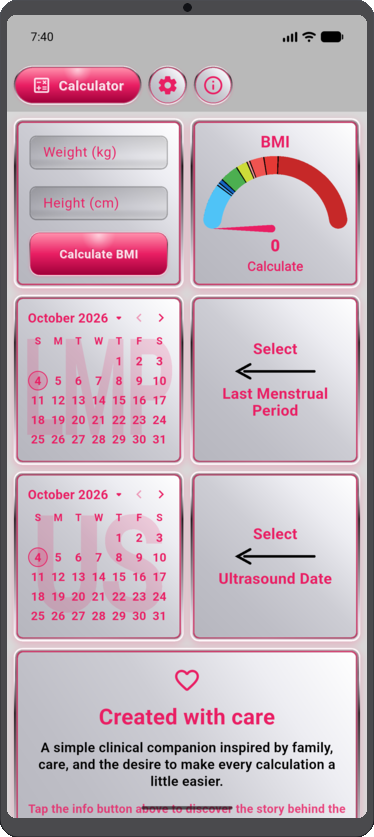
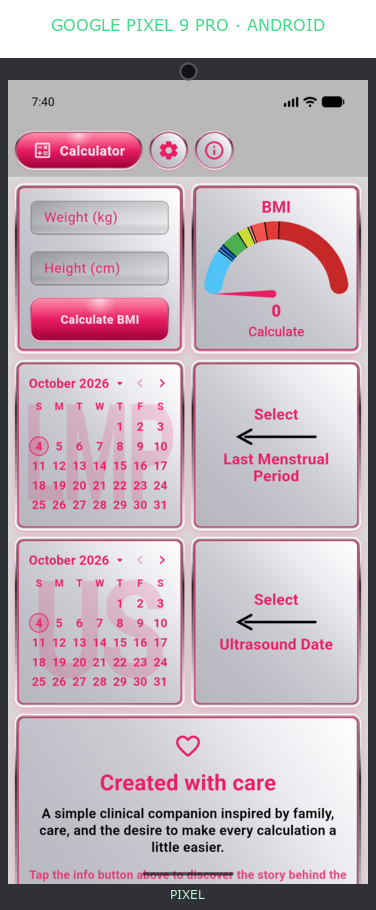
Refresh public gallery device renders

diff --git a/README.md b/README.md
@@ -6,6 +6,8 @@
 
 ## Android
 
+<p><img src="images/renders/2026-10/android/device-label.png" alt="Google Pixel 9 Pro · Android" height="19"></p>
+
 ### Launch
 
 <a href="images/renders/2026-10/android/android-launch-gallery-device.png"><img src="images/renders/2026-10/android/android-launch-gallery-device.png" alt="App Maria launch screen on Android" width="180"></a>
@@ -42,6 +44,8 @@
 </p>
 
 ## iPhone
+
+<p><img src="images/renders/2026-10/iphone/device-label.png" alt="iPhone 15 Pro · iOS" height="19"></p>
 
 ### Launch
 
@@ -80,6 +84,8 @@
 </p>
 
 ## iPad
+
+<p><img src="images/renders/2026-10/ipad/device-label.png" alt="iPad Pro 13-inch (M5) · iPadOS" height="19"></p>
 
 ### Launch
 
